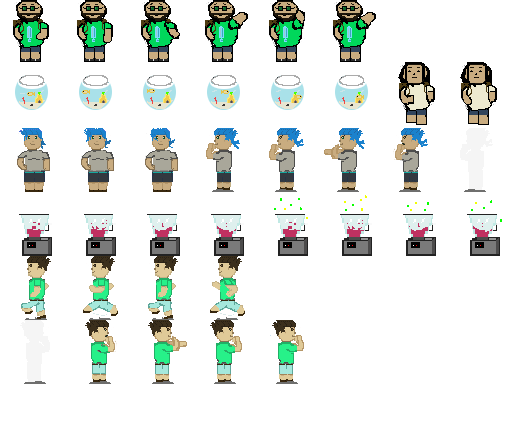
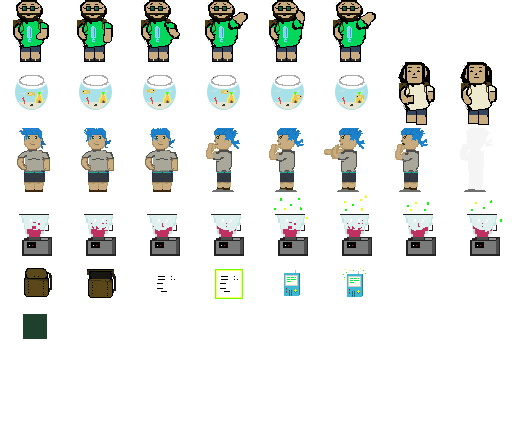
working on inventory system

diff --git a/src/js/GameObjectLoader.js b/src/js/GameObjectLoader.js
@@ -156,6 +156,86 @@ export default class GameObjectLoader{
             gameObjects.push(blender)
             interactableNPCs.push(blender)
 
+
+            var inventoryIconSprites = new SpriteSheet(image, 64, 64)
+            inventoryIconSprites.define("default", 0, 4);
+            inventoryIconSprites.define("idle1", 0, 4);
+            inventoryIconSprites.define("activeDefault", 1, 4, 6);
+            inventoryIconSprites.define("active1", 1, 4, 6);
+            var inventoryIcon = new GameObject(inventoryIconSprites, 1, 20);
+            inventoryIcon.sprites = inventoryIconSprites
+            inventoryIcon.active = true
+            inventoryIcon.name = "Inventory"
+            var transXY = Utils.translateCoordinates(gameCanvas, false, 0.75, -.93)
+            inventoryIcon.posX = transXY.transX
+            inventoryIcon.posY = transXY.transY
+            inventoryIcon.normX = .75
+            inventoryIcon.normY = -.93
+            inventoryIcon.scene = -9
+            inventoryIcon.mouseActive = true
+            gameObjects.push(inventoryIcon)
+            interactableNPCs.push(inventoryIcon)
+
+            var accountStatsIconSprites = new SpriteSheet(image, 64, 64)
+            accountStatsIconSprites.define("default", 2, 4);
+            accountStatsIconSprites.define("idle1", 2, 4);
+            accountStatsIconSprites.define("activeDefault", 3, 4, 6);
+            accountStatsIconSprites.define("active1", 3, 4, 6);
+            var accountStats = new GameObject(accountStatsIconSprites, 1, 20);
+            accountStats.sprites = accountStatsIconSprites
+            accountStats.active = true
+            accountStats.name = "accountIcon"
+            var transXY = Utils.translateCoordinates(gameCanvas, false, 0.68, -.93)
+            accountStats.posX = transXY.transX
+            accountStats.posY = transXY.transY
+            accountStats.normX = .68
+            accountStats.normY = -.93
+            accountStats.scene = -9
+            accountStats.mouseActive = true
+            gameObjects.push(accountStats)
+            interactableNPCs.push(accountStats)
+
+            var phoneIconSprites = new SpriteSheet(image, 64, 64)
+            phoneIconSprites.define("default", 4, 4);
+            phoneIconSprites.define("idle1", 4, 4);
+            phoneIconSprites.define("activeDefault", 5, 4, 6);
+            phoneIconSprites.define("active1", 5, 4, 6);
+            var phoneIcon = new GameObject(phoneIconSprites, 1, 20);
+            phoneIcon.sprites = phoneIconSprites
+            phoneIcon.active = true
+            phoneIcon.name = "phoneIon"
+            var transXY = Utils.translateCoordinates(gameCanvas, false, 0.82, -.93)
+            phoneIcon.posX = transXY.transX
+            phoneIcon.posY = transXY.transY
+            phoneIcon.normX = .82
+            phoneIcon.normY = -.93
+            phoneIcon.scene = -9
+            phoneIcon.mouseActive = true
+            gameObjects.push(phoneIcon)
+            interactableNPCs.push(phoneIcon)
+
+            var InventoryBoxSprites = new SpriteSheet(image, 64, 64)
+            InventoryBoxSprites.define("default", 0, 5);
+            InventoryBoxSprites.define("idle1", 0, 5);
+            InventoryBoxSprites.define("activeDefault", 0, 5, 6);
+            InventoryBoxSprites.define("active1", 0, 5, 6);
+            var InventoryBox = new GameObject(InventoryBoxSprites, 1, 20);
+            InventoryBox.sprites = InventoryBoxSprites
+            InventoryBox.active = true
+            InventoryBox.name = "InventoryBox"
+            var transXY = Utils.translateCoordinates(gameCanvas, false, 0.38, -0.47)
+            InventoryBox.posX = transXY.transX
+            InventoryBox.posY = transXY.transY
+            InventoryBox.normX = .7
+            InventoryBox.normY = -.85
+            InventoryBox.scene = -9
+            InventoryBox.interactable = false
+            InventoryBox.invisible = true
+            InventoryBox.doScale = true
+            InventoryBox.scale = 8
+            gameObjects.push(InventoryBox)
+
+
             
             gameObjects.push(tutorialBro);
             gameObjects.push(blueHairBro);
@@ -315,7 +395,7 @@ export default class GameObjectLoader{
 
     static LoadLocalObjects(scene, localGameObjects, gameObjects){
         localGameObjects.splice(0, localGameObjects.length)
-        gameObjects.forEach(obj => {if(obj.scene == scene || obj.isPlayer)localGameObjects.push(obj)});
+        gameObjects.forEach(obj => {if(obj.scene == scene || obj.isPlayer || obj.scene == -9)localGameObjects.push(obj)});
     }
 
 

diff --git a/src/js/main.js b/src/js/main.js
@@ -38,6 +38,12 @@ var otherPlayers = new Map()
 
 var player = {};
 var dialogBox = {};
+var inventoryIcon = {};
+var inventoryUI = {};
+var playerStatsIcon = {};
+var playerStatsUI = {};
+var phoneIcon = {};
+var phoneUI = {};
 var dbc;
 var loaded = false;
 
@@ -68,9 +74,7 @@ function update(time){
         {
             if(!player.playerLoaded) return
             display.player = player
-            if(gameObject.scene != player.scene && gameObject.name != "dialogBox"){
-                return
-            }
+
             if(gameObject.animating && !gameObject.invisible){ 
             if(gameObject.tempStart == -1) gameObject.tempStart = time
             if(gameObject.start == -1) {
@@ -160,7 +164,7 @@ function update(time){
         if(gameObject.isPlayer && !gameObject.fighting){
             var transXY = Utils.translateCoordinates(gameCanvas, true, gameObject.posX, gameObject.posY)
             interactableNPCs.forEach(NPC => {
-                if(NPC.scene == gameObject.scene){
+                if((NPC.scene == gameObject.scene)){
                     var diffX = Math.abs(NPC.normX - transXY.transX)
                     var diffY = Math.abs(NPC.normY - transXY.transY)
                     if(diffX < .15 && diffY < .31){

diff --git a/src/js/engine.js b/src/js/engine.js
@@ -24,6 +24,7 @@ class Engine{
 		this.tapout = false
 		this.fightAccepted = false
 		this.gameAccepted = false
+		this.inventoryOpen = false
 	}
 
 	prepMovePlayer(normX, normY){
@@ -62,6 +63,21 @@ class Engine{
 	handleInteraction(NPC, interactionStep, normx, normy){
 		console.log('beep')
 		switch(NPC.name){
+			case "Inventory":
+				debugger
+				if(interactionStep > 0) {this.player.interacting = false; return;}
+				if(this.inventoryOpen == false){
+					this.localGameObjects.filter(obj => obj.name == "InventoryBox")[0].invisible = false
+					this.inventoryOpen = true
+				}else{
+					this.localGameObjects.filter(obj => obj.name == "InventoryBox")[0].invisible = true
+					this.inventoryOpen = false
+				}
+
+				this.player.interacting = false
+				
+				break;
+
 			case "Mysterious Stranger":
 				this.dialogBox.active = true
 				this.dialogBox.name = NPC.name

diff --git a/src/js/controller.js b/src/js/controller.js
@@ -81,13 +81,15 @@ class Controller{
 			
 
 			interactableNPCs.forEach(NPC => {
-                if(NPC.scene == player.scene && NPC.mouseActive == true){
+                if((NPC.scene == player.scene || NPC.scene == -9) && NPC.mouseActive == true){
                     var diffX = Math.abs(normalized_x - NPC.normX)
                     var diffY = Math.abs(normalized_y - NPC.normY)
-                    if(diffX < .15 && diffY < .31){
+                    if(( NPC.scene != -9 && diffX < .1 && diffY < .31) || (diffX < .025 && diffY < .05)){
                         NPC.mouseAnimate = true
+						if(NPC.scene == -9) NPC.interactable = true
                     }else{ 
 						NPC.mouseAnimate = false
+						if(NPC.scene == -9) NPC.interactable = false
                     }
 				}
 			})

diff --git a/src/js/SpriteSheet.js b/src/js/SpriteSheet.js
@@ -79,8 +79,19 @@ export default class SpriteSheet {
                 scale = 1.2;
             }
         }
+        if(gameObj.doScale){
+            scale = gameObj.scale
+        }
+        
+        if(gameObj.name == "Inventory"){
+            context.fillStyle = 'rgba(0,225,225,0.5)';
+        context.fillRect( 980, 620, 330, 200);
+        }
         
         context.drawImage(buffer, x-this.width/2, y -this.height/2, this.width*scale, this.height*scale);
+
+       
+
         
 
         if(msg != ""){

diff --git a/src/js/GameObject.js b/src/js/GameObject.js
@@ -67,6 +67,8 @@ export default class GameObject{
         this.inMiniGame = false
         this.miniGameVal = 0
         this.miniGameScore = 0
+        this.doScale = false
+        this.scale = 1
     }
 
     getNextSprite(){
